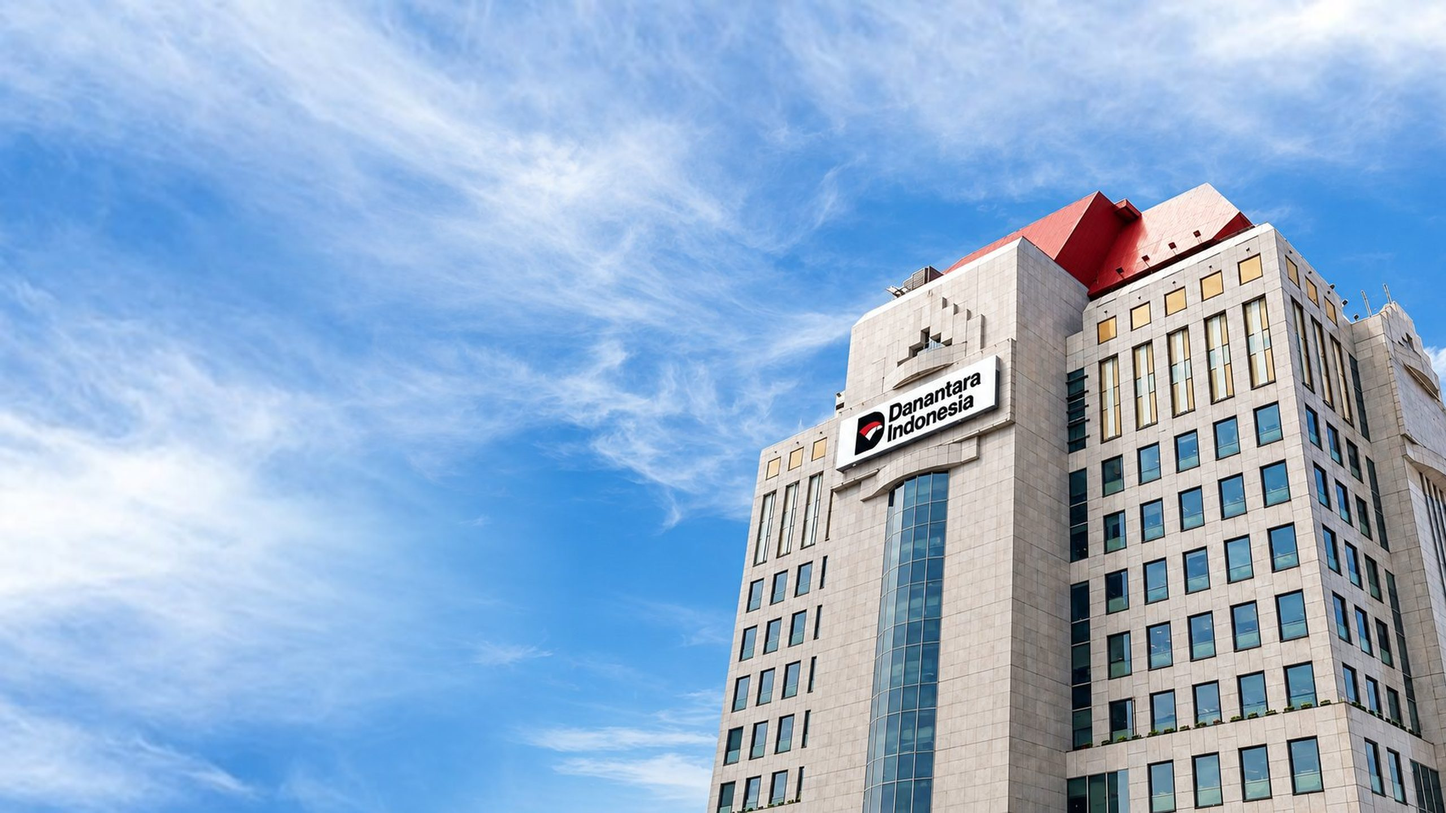
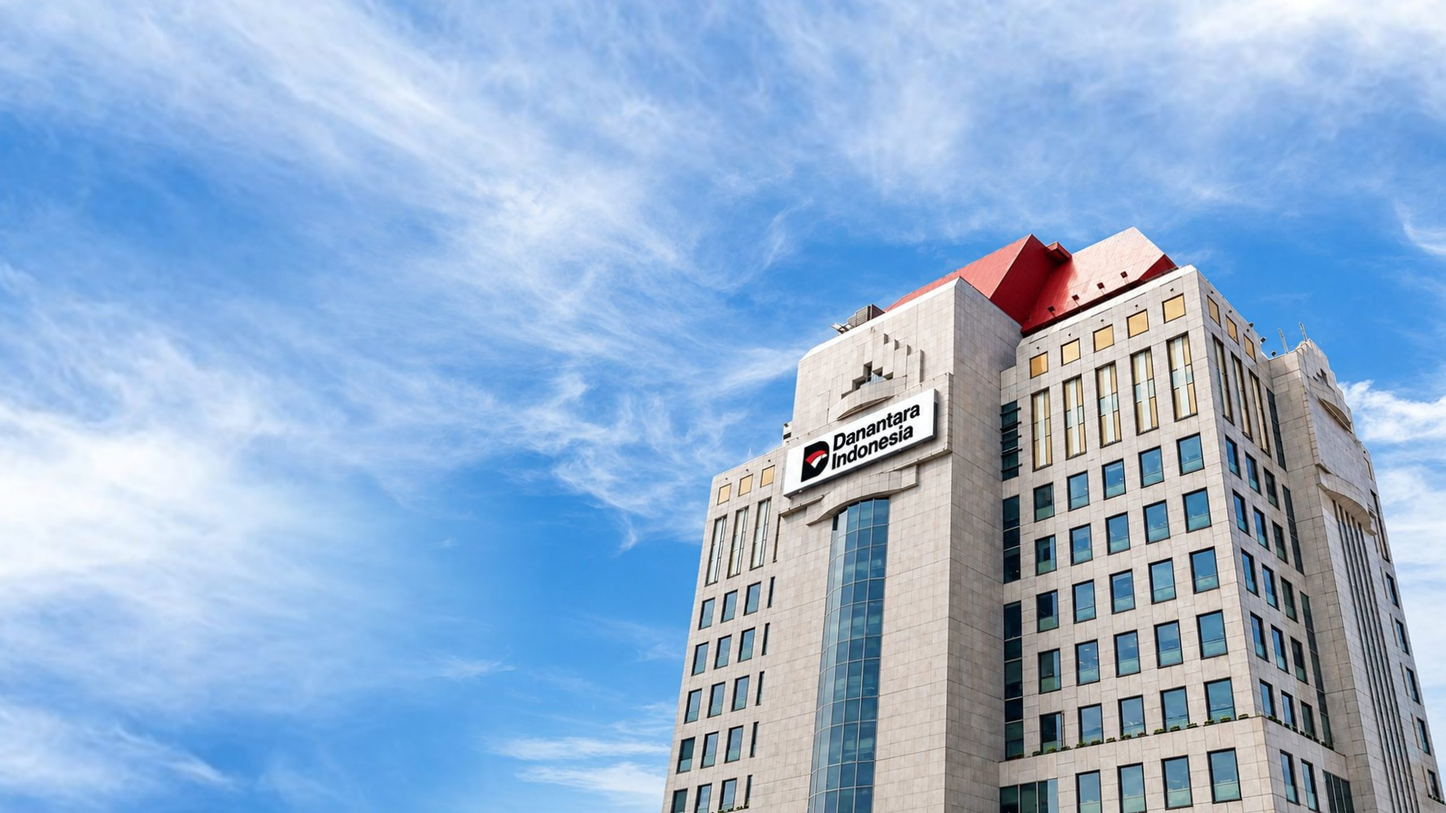
v0.29

diff --git a/danantara/app.js b/danantara/app.js
@@ -1,7 +1,7 @@
 /* ===== PENGATURAN ===== */
 const SHEET_ID = "1EvNZ5apr_wFBvOn9hfGlFJpc6aHrFNnoVL_36OcyNvE";
 const TABS = { post: "Data Bersih", komentar: "Komentar" };
-const RISK = { tinggi: 35, sedang: 20 };          // ambang % negatif
+const RISK = { kritis: 35, tinggi: 25, sedang: 15 }; // ambang % negatif: Rendah < Sedang < Tinggi < Kritis
 const REFRESH_MENIT = 5;
 // Akun resmi Danantara/BUMN/pemerintah (huruf besar/kecil diabaikan). Kolom 'Jenis Akun' berisi "Resmi" juga otomatis dihitung resmi.
 const AKUN_RESMI = []; // kosong: akun resmi cukup dari label 'Resmi' di kolom Jenis Akun
@@ -187,8 +187,8 @@ async function render() {
     const d = a - b, good = inverse ? d < 0 : d > 0, cls = d === 0 ? '' : good ? 'up' : 'down';
     return `<b class="${cls}">${d > 0 ? '▲ +' : d < 0 ? '▼ ' : ''}${(Math.round(d * 10) / 10).toString().replace('.', ',')}${unitTxt}</b> vs ${prevLbl}`;
   };
-  const lvl = S.negP >= RISK.tinggi ? 'TINGGI' : S.negP >= RISK.sedang ? 'SEDANG' : 'RENDAH';
-  const lvlColor = { TINGGI: SENT.negatif, SEDANG: '#f59e0b', RENDAH: SENT.positif }[lvl];
+  const lvl = S.negP >= RISK.kritis ? 'KRITIS' : S.negP >= RISK.tinggi ? 'TINGGI' : S.negP >= RISK.sedang ? 'SEDANG' : 'RENDAH';
+  const lvlColor = { KRITIS: '#EF4444', TINGGI: '#F97316', SEDANG: '#EAB308', RENDAH: '#22C55E' }[lvl];
   const sh = (s, k) => s ? s[k] / (s.T || 1) * 100 : undefined;
   const K = [
     ['radar', 'Total Mention', fmt(S.T), '', perDay.map(s => s.T), css('--accent'), delta(cur.T, prev?.T, '')],
@@ -309,7 +309,7 @@ async function render() {
   $('riskRing').style.setProperty('--p', S.negP.toFixed(1)); $('riskRing').style.setProperty('--c', lvlColor);
   $('riskPct').textContent = pct(S.n, S.T);
   $('risk').textContent = lvl; $('risk').style.color = lvlColor;
-  $('riskNote').textContent = `Tinggi ≥${RISK.tinggi}% · Sedang ≥${RISK.sedang}%`;
+  $('riskNote').textContent = `Kritis ≥${RISK.kritis}% · Tinggi ≥${RISK.tinggi}% · Sedang ≥${RISK.sedang}%`;
   const nMax = negTop[0]?.[1] || 1;
   $('flow').innerHTML = negTop.slice(0, 4).map(([k, v], i) => `<li><span class="rank">${i + 1}</span><div><div class="acc-top"><span class="nt">${esc(k)}</span><b style="color:var(--neg)">${v}</b></div><div class="acc-bar"><i style="width:${v / nMax * 100}%;background:var(--neg)"></i></div></div></li>`).join('') || '<li class="empty">Tidak ada isu negatif</li>';
   const t3 = negTop.slice(0, 3).reduce((s, x) => s + x[1], 0);

diff --git a/danantara/index.html b/danantara/index.html
@@ -66,11 +66,11 @@
 <script src="loader.js?v=99"></script>
 <script>(function(){var done=false,fin=function(){if(done)return;done=true;try{GarudaLoader.complete()}catch(e){}};addEventListener("lok:update",fin,{once:true});setTimeout(function(){var l=document.getElementById("loading");if(l&&/Gagal/.test(l.textContent))fin()},4000);setTimeout(fin,20000);})();</script>
 
-<div id="heroBg" aria-hidden="true"><img class="hb-d" src="hero-dark.jpg?v=4" srcset="hero-dark-sm.jpg?v=4 1280w, hero-dark.jpg?v=4 2560w" sizes="100vw" alt="" fetchpriority="high" decoding="async"><img class="hb-l" src="hero-light.jpg?v=5" srcset="hero-light-sm.jpg?v=5 1280w, hero-light.jpg?v=5 2560w" sizes="100vw" alt="" decoding="async"></div>
+<div id="heroBg" aria-hidden="true"><img class="hb-d" src="hero-dark.jpg?v=4" srcset="hero-dark-sm.jpg?v=4 1280w, hero-dark.jpg?v=4 2560w" sizes="100vw" alt="" fetchpriority="high" decoding="async"><img class="hb-l" src="hero-light.jpg?v=6" srcset="hero-light-sm.jpg?v=6 1280w, hero-light.jpg?v=6 2560w" sizes="100vw" alt="" decoding="async"></div>
 <header class="topbar">
   <div class="brand">
     <img class="logo logo-dark" src="logo-dark.png?v=73" alt="Logo">
-    <img class="logo logo-light" src="logo-light.png?v=73" alt="Logo"><span class="beta" title="Versi 0.28 · diperbarui 31 Okt 2026">Beta<i class="ver">v0.28</i></span>
+    <img class="logo logo-light" src="logo-light.png?v=73" alt="Logo"><span class="beta" title="Versi 0.29 · diperbarui 31 Okt 2026">Beta<i class="ver">v0.29</i></span>
   </div>
   <div class="top-r">
       <div class="dr">
@@ -215,7 +215,7 @@
     <footer>© 2026 Garuda Labs Intelligent Media Monitoring</footer>
   </div>
 </main>
-<script src="app.js?v=101"></script>
+<script src="app.js?v=102"></script>
 <script src="map.js?v=74"></script>
 <script src="hitrend.js?v=4"></script>
 <script src="core.js?v=108"></script>
